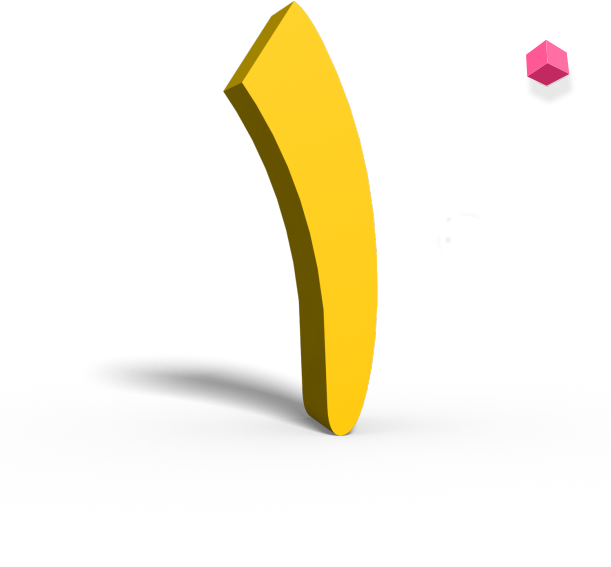
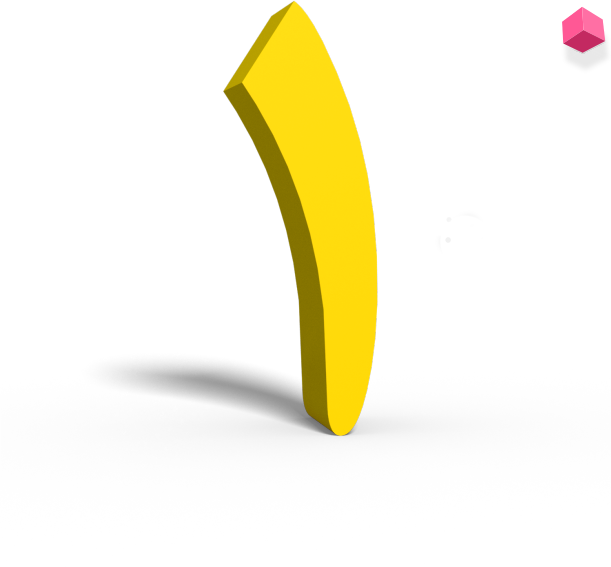
header changes

Changed region(s): [[0.3732, 0.0, 0.5597, 0.7496], [0.8396, 0.0, 0.9951, 0.1499]]

diff --git a/assets/css/styles2.css b/assets/css/styles2.css
@@ -1824,7 +1824,8 @@ html[dir="rtl"] .post-content ul ul {
   color: #fff !important;
   font-family: Yekan;
   font-weight: 800;
-  font-size: 2.5rem !important;
+  font-size: 2.5rem;
+  max-width: 85px;
 }
 @media (max-width: 1199px) {
   .site-header .head-item {
@@ -1836,7 +1837,10 @@ html[dir="rtl"] .post-content ul ul {
     margin-bottom: 75px;
   }
   .site-header .head-item .site-logo {
-    max-width: 155px;
+    max-width: 60px;
+  }
+  .site-header .head-item .site-logo {
+    font-size: 1.7rem;
   }
 }
 @media (max-width: 850px) {
@@ -1853,17 +1857,8 @@ html[dir="rtl"] .post-content ul ul {
   .site-header .head-item {
     padding-left: 8vw;
     padding-right: 8vw;
-    margin-bottom: -20px;
-  }
-}
-@media (max-width: 575px) {
-  .site-header .head-item .site-logo {
     max-width: 203px;
-    margin: 9px auto;
-  }
-}
-@media (max-width: 410px) {
-  .site-header .head-item {
+    margin: 50px auto;
     display: flex;
     justify-content: center;
   }
@@ -1959,7 +1954,6 @@ html[dir="rtl"] .post-content ul ul {
 .site-header .header-body .right-head-body {
   position: relative;
   top: 45px;
-  margin-left: 111px;
 }
 @media (max-width: 991px) {
   .site-header .header-body .right-head-body {
@@ -1969,32 +1963,31 @@ html[dir="rtl"] .post-content ul ul {
     margin-left: 0;
   }
 }
-@media (min-width: 1600px) {
-  .site-header .header-body .right-head-body {
-    margin-left: 0;
-  }
-}
 .site-header .header-body .left-head-body {
   position: relative;
-  top: 80px;
+  margin-top: 6vw;
+}
+@media (max-width: 767px) {
+  .site-header .header-body .left-head-body {
+    margin-top: 8vw;
+  }
+}
+@media (max-width: 767px) {
+  .site-header .header-body .left-head-body {
+    margin-left: auto;
+    margin-right: auto;
+  }
 }
 .site-header .header-body .left-head-body .mokaab1 {
   position: absolute;
-  left: -14%;
-  top: -20%;
+  left: -25%;
+  top: -25%;
   z-index: 100;
-}
-@media (max-width: 575px) {
-  .site-header .header-body .left-head-body {
-    padding-top: 8vw;
-  }
-  .site-header .header-body .left-head-body .mokaab1 {
-    left: 15%;
-  }
 }
 .site-header .header-body .left-head-body .mokaab1 svg {
   max-width: 150px;
   max-height: 100px;
+  margin-top: 0px;
 }
 .site-header .header-body .left-head-body h2 {
   color: #fff;
@@ -2020,8 +2013,10 @@ html[dir="rtl"] .post-content ul ul {
   }
 }
 .site-header .header-body .left-head-body h2 span {
-  color: gold;
-  font-size: 80px;
+  color: #ffdd13;
+  font-size: 55px;
+  padding-left: 2vw;
+  padding-right: 2vw;
 }
 @media (max-width: 1199px) {
   .site-header .header-body .left-head-body h2 span {
@@ -2048,46 +2043,28 @@ html[dir="rtl"] .post-content ul ul {
   margin-right: auto;
   display: table;
   color: #fff;
-  font-size: 14px;
-  font-weight: 300;
-  margin-top: 20px;
+  font-size: 22px;
+  font-weight: 500;
+  margin-top: 2vw;
 }
-@media (max-width: 991px) {
-  .site-header .header-body .left-head-body .bottom-txt,
-  .site-header .header-body .left-head-body svg {
-    margin-top: 0;
-    margin-right: 7vw;
-    font-size: 12px;
-  }
-}
-@media (max-width: 575px) {
-  .site-header .header-body .left-head-body .bottom-txt,
-  .site-header .header-body .left-head-body svg {
-    margin-top: 0;
-  }
-}
-@media (max-width: 465px) {
-  .site-header .header-body .left-head-body .bottom-txt,
-  .site-header .header-body .left-head-body svg {
-    font-size: 12px;
-  }
-}
-@media (min-width: 1600px) {
-  .site-header .header-body .left-head-body .bottom-txt,
-  .site-header .header-body .left-head-body svg {
-    font-size: 18px;
-  }
+.site-header .header-body .left-head-body .top-txt {
+  margin-left: auto;
+  display: table;
+  color: #fff;
+  font-size: 22px;
+  font-weight: 500;
+  margin-bottom: 2vw;
 }
 .site-header .header-body .left-head-body .line-icon {
-  width: 50px;
+  width: 75px;
   height: 15px;
-  margin-top: 26px;
-  margin-left: 60px;
+  margin-top: 15px;
+  margin-left: 20px;
 }
 @media (min-width: 1600px) {
   .site-header .header-body .left-head-body .line-icon {
-    margin-top: 23px;
-    margin-left: 90px;
+    margin-top: 15px;
+    margin-left: 20px;
   }
 }
 body {
@@ -2336,7 +2313,7 @@ body .left-bg {
   width: 75px;
   height: 6px;
   border-radius: 4px;
-  background-color: #ffc000;
+  background-color: #ffd200;
   bottom: -15%;
   left: 50%;
   -ms-transform: translateX(-50%);
@@ -3231,28 +3208,7 @@ button.close {
     animation-timing-function: ease-in;
   }
 }
-.d-767 {
-  display: none;
-}
-.d-767 h2 {
-  line-height: 3rem !important;
-}
-.dd-767 {
-  display: relative;
-}
-@media (max-width: 767px) {
-  .d-767 {
-    display: block;
-    white-space: nowrap;
-  }
-  .dd-767 {
-    display: none;
-  }
-}
 @media (max-width: 450px) {
-  .d-767 {
-    white-space: normal;
-  }
   .site-header .header-body .left-head-body h2 {
     font-size: 1.7rem;
     padding-right: 0;
@@ -3435,7 +3391,7 @@ button.close {
   font-size: 14px;
   font-weight: 400;
   letter-spacing: 0.3px;
-  line-height: 2.25vh;
+  line-height: 2vh;
 }
 .list-group-item:hover {
   z-index: 3;
@@ -3832,15 +3788,18 @@ footer h2 b {
     height: 450px;
   }
 }
-@media (max-width: 340px) {
+@media (max-width: 450px) {
   .site-header .header-body .left-head-body h2 {
-    font-size: 1.3rem;
-  }
-  .site-header .header-body .left-head-body h2 span {
     font-size: 2rem;
   }
+  .site-header .header-body .left-head-body h2 span {
+    font-size: 2.7rem;
+  }
   .bottom-txt {
-    font-size: 0.8rem !important;
+    font-size: 1.5rem !important;
+  }
+  .top-txt {
+    font-size: 1.5rem !important;
   }
 }
 .sub-cont {
@@ -4881,8 +4840,8 @@ input[type="number"]::-webkit-outer-spin-button {
 }
 .alert-danger {
   color: #fff;
-  background-color: #b31f2e;
-  border-color: #b31f2e;
+  background-color: #f32f77;
+  border-color: #f32f77;
 }
 .alert {
   position: fixed;

diff --git a/index.html b/index.html
@@ -13,7 +13,7 @@
       content="Made with love by dornaweb, UI design by ivahid.com and Academyfarda"
     />
     <!-- End Loading Script -->
-    <link rel="shortcut icon" href="assets/images/500X500.png" />
+    <link rel="shortcut icon" href="assets/images/50X50.png" />
     <link rel="stylesheet" href="assets/css/loading.css" />
     <link rel="stylesheet" href="https://unpkg.com/swiper/swiper-bundle.css" />
     <link
@@ -176,8 +176,6 @@
             <img
               src="assets/images/500X500.png"
               alt="logo"
-              width="80"
-              height="80"
             />
             <span class="text-nowarp">متخصصان فردا</span>
           </h1>
@@ -193,9 +191,7 @@
             </svg>
           </div>
           <!--phone-number-->
-          <a href="#forms" class="login-head bounce-in-fwd go-to-register-form hidden-sm hidden-xs">
-            ثبتنام کنید
-          </a>
+          
         </div>
         <!--left-top-header-->
       </div>
@@ -208,16 +204,14 @@
         <!--right-head-body-->
 
         <div class="left-head-body">
-          <h2 class="dd-767">تنها آموزشگاه</h2>
-          <h2 class="text-head dd-767">
-            رتبه <span> یک </span> تعمیرات موبایل در کشور
-          </h2>
-          <div class="d-767">
-            <h2>تنها آموزشگاه رتبه <span> یک </span> تعمیرات موبایل در کشور</h2>
-          </div>
-          <span class="bottom-txt text-nowarp">
-            قابل استعلام از سازمان فنی و حرفه ای کشور
+          <span class="top-txt text-nowarp">
+            تنها
           </span>
+          <h2 class="pt-2"><span> آموزشگاه تعمیرات موبایل </span></h2>
+          <span class="bottom-txt text-nowarp">
+            رتبه ۱  در کشور
+          </span>
+
           <svg class="icon visible-xl visible-xxl line-icon">
             <use xlink:href="#line-icon"></use>
           </svg>
@@ -281,7 +275,7 @@
                   data-name="Path 11"
                   d="M54.99,301.094l5.5-37.869,30.648,27.34-5.043,35.345Z"
                   transform="translate(-17.81 -263.23)"
-                  fill="#ffcc53"
+                  fill="#ffdd3e"
                 />
               </g>
               <g transform="matrix(1, 0, 0, 1, 0, 0)" filter="url(#Path_12)">
@@ -290,7 +284,7 @@
                   data-name="Path 12"
                   d="M23.29,315.8,30.417,281l35.555-17.773-5.5,37.869Z"
                   transform="translate(-23.29 -263.23)"
-                  fill="#fcb913"
+                  fill="#ffd200"
                 />
               </g>
               <g transform="matrix(1, 0, 0, 1, 0, 0)" filter="url(#Path_13)">
@@ -299,7 +293,7 @@
                   data-name="Path 13"
                   d="M60.474,295.509l31.1,24.817-33,12.491-35.292-22.6Z"
                   transform="translate(-23.29 -257.64)"
-                  fill="#cd9407"
+                  fill="#d5af00"
                 />
               </g>
             </svg>
@@ -320,10 +314,10 @@
             <ul class="list-group list-group-flush">
               <li class="list-group-item">
                 <a
-                  class="d-flex align-content-center justify-content-center pb-1 link-home access-link-hover"
+                  class="d-flex align-content-center justify-content-center pb-1 access-link-hover"
                   href="https://academymobileset.com"
                 >
-                  <i class="fa fa-home fa-2x" aria-hidden="true"></i>
+                  <i class="fa fa-home fa-2x link-home" aria-hidden="true"></i>
                   <h3 class="pt-2 pr-2 d-flex align-items-center">خانه</h3>
                 </a>
                 <a
@@ -3750,10 +3744,10 @@
               <ul class="list-group list-group-flush">
                 <li class="list-group-item">
                   <a
-                    class="d-flex align-content-center justify-content-center pb-1 link-home access-link-hover"
+                    class="d-flex align-content-center justify-content-center pb-1 access-link-hover"
                     href="https://academymobileset.com"
                   >
-                    <i class="fa fa-home fa-2x" aria-hidden="true"></i>
+                    <i class="fa fa-home fa-2x link-home" aria-hidden="true"></i>
                     <h3 class="pt-2 pr-2 d-flex align-items-center">خانه</h3>
                   </a>
                   <a

diff --git a/thanks.html b/thanks.html
@@ -13,7 +13,7 @@
       content="Made with love by dornaweb, UI design by ivahid.com and Academyfarda"
     />
     <!-- End Loading Script -->
-    <link rel="shortcut icon" href="assets/images/500X500.png" />
+    <link rel="shortcut icon" href="assets/images/50X50.png" />
     <link
       rel="stylesheet"
       href="https://cdn.jsdelivr.net/npm/bootstrap@4.5.2/dist/css/bootstrap-grid.min.css"

diff --git a/verify.html b/verify.html
@@ -13,7 +13,7 @@
       content="Made with love by dornaweb, UI design by ivahid.com and Academyfarda"
     />
     <!-- End Loading Script -->
-    <link rel="shortcut icon" href="assets/images/500X500.png" />
+    <link rel="shortcut icon" href="assets/images/50X50.png" />
     <link
       rel="stylesheet"
       href="https://cdn.jsdelivr.net/npm/bootstrap@4.5.2/dist/css/bootstrap-grid.min.css"
